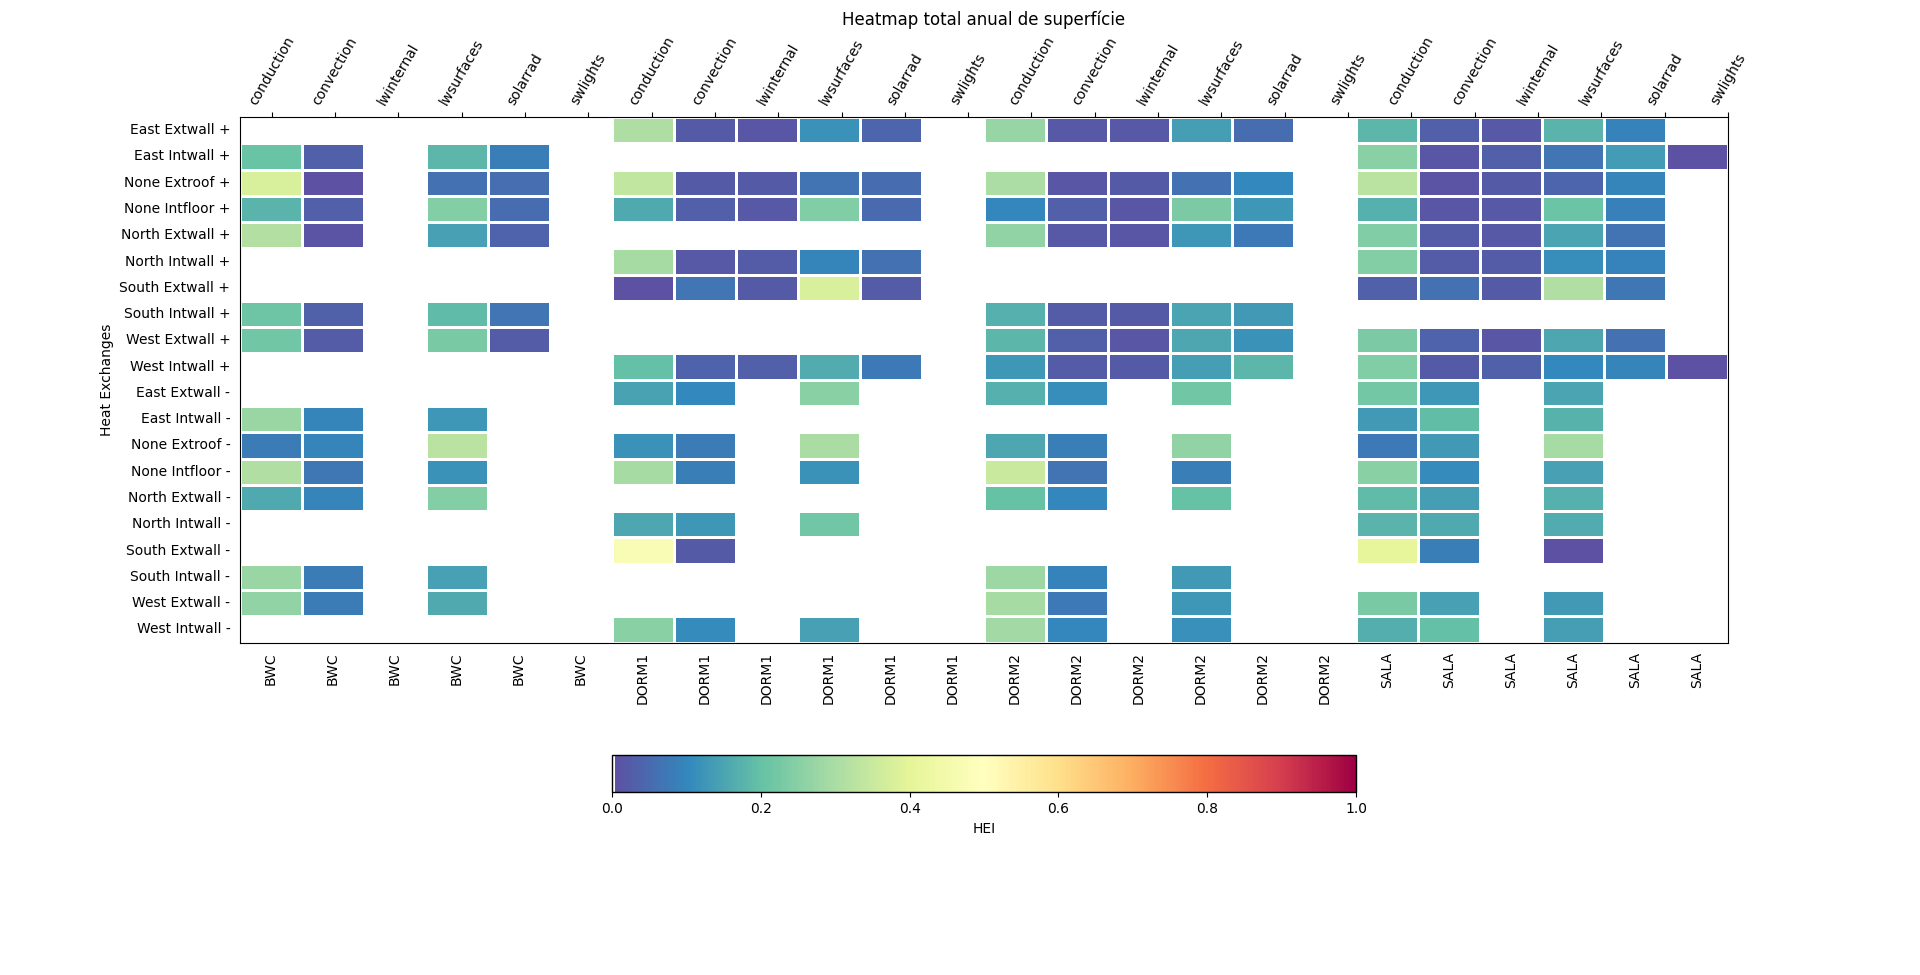
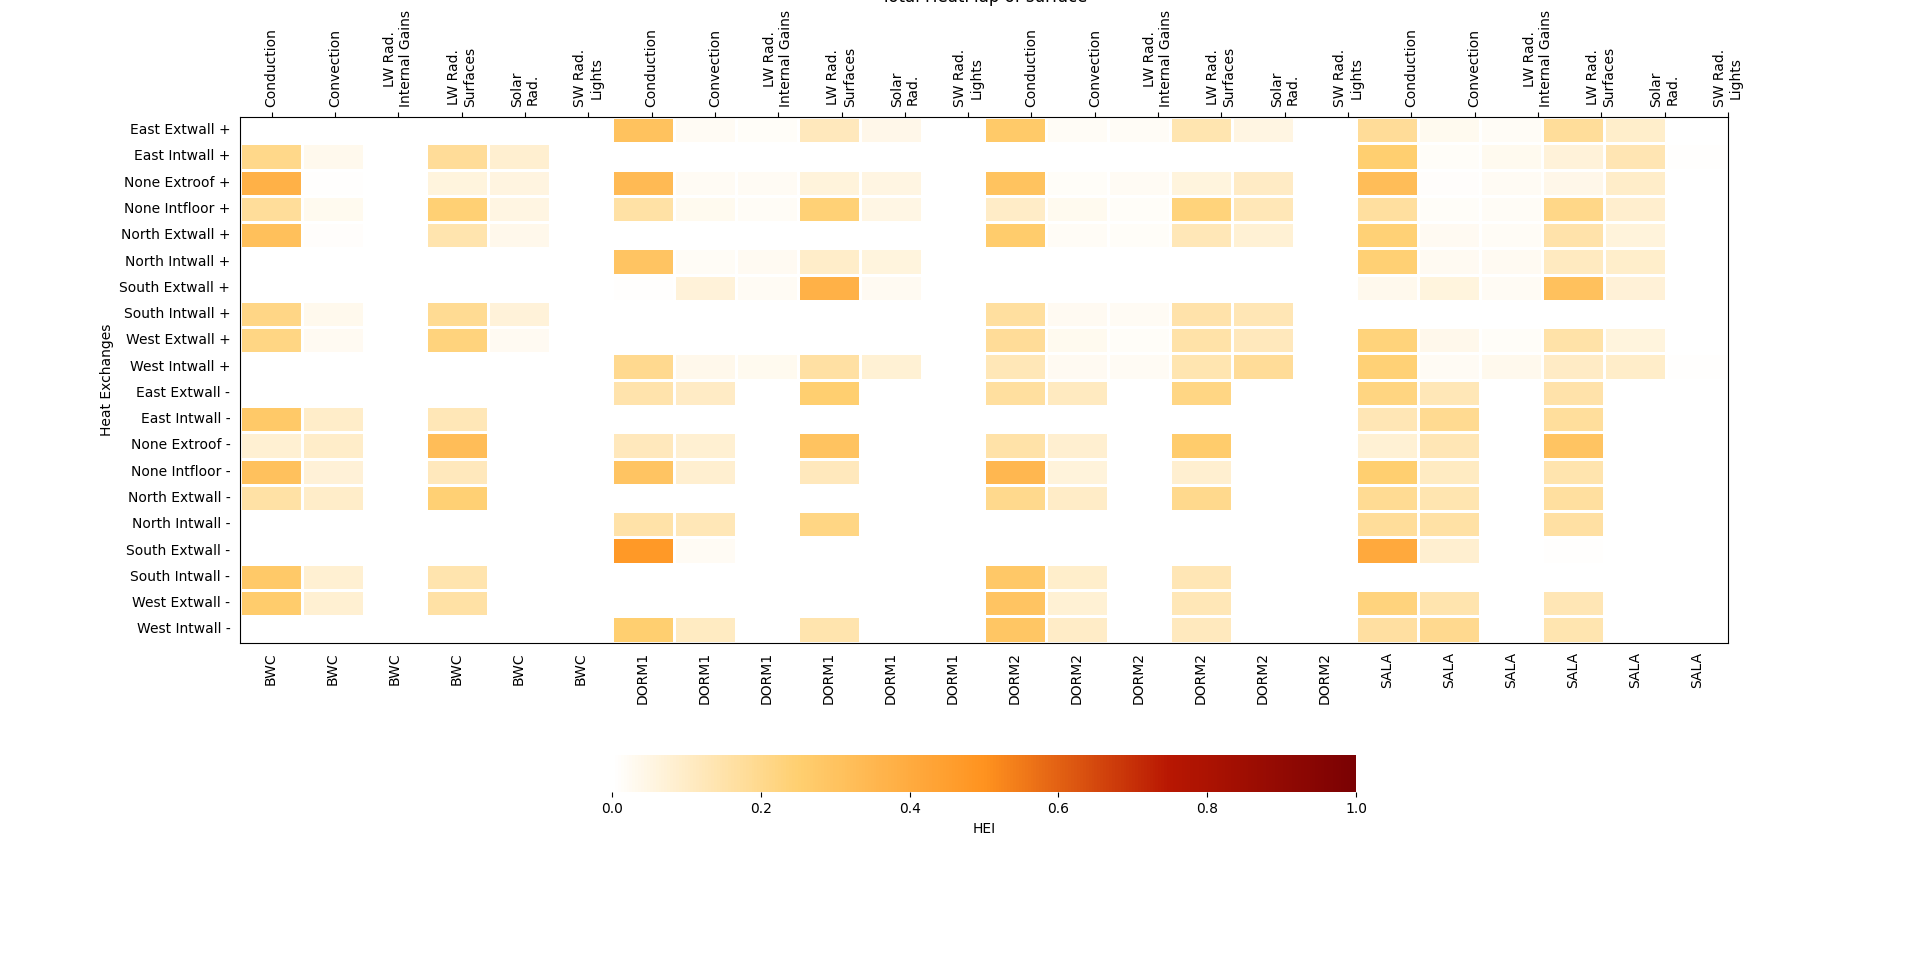
tudo pronto pendente ajustes

diff --git a/plotting_space/plotter.py b/plotting_space/plotter.py
@@ -7,6 +7,14 @@ from matplotlib import pyplot as plt
 from matplotlib.colors import LinearSegmentedColormap
 
 num_to_month = {1: 'Jan', 2: 'Feb', 3: 'Mar', 4: 'Apr', 5: 'May', 6: 'Jun', 7: 'Jul', 8: 'Aug', 9: 'Sep', 10: 'Oct', 11: 'Nov', 12: 'Dec'}
+surfaces_rename = {
+    "conduction": "Conduction",
+    "convection": "Convection",
+    "lwinternal": "LW Rad.\nInternal Gains",
+    "lwsurfaces": "LW Rad.\nSurfaces",
+    "swlights": "SW Rad.\nLights",
+    "solarrad": "Solar\nRad."
+}
 
 class HeatMap:
     def __init__(self, file_path: str, file_name: str, target_type: str, zones: list = 0, sizefont: float = 10, tight: bool = False, show: bool = False, cbar_orientation: str = 'right', months: list = 0):
@@ -15,14 +23,21 @@ class HeatMap:
         self.target_type = target_type
         self.df = pd.read_csv(f'{self.file_path}{self.file_name}', sep=',', index_col=0)
         self.df['gains_losses'] = self.df['gains_losses'].apply(lambda name: name.replace("_", " ").title())
-        if self.target_type == 'surface':
-            self.df['zone'] = self.df.apply(lambda row: f'{row["zone"]}|{row["flux"]}', axis=1)
         self.df['gains_losses'] = self.df.apply(lambda row: f'{row["gains_losses"]} +' if row['heat_direction'] == 'gain' else f'{row["gains_losses"]} -', axis=1)
         self.zones = zones
         self.sizefont = sizefont
         self.show = show
         self.months = months
         self.cbar_orientation = cbar_orientation
+        match self.zones:
+            case 0:
+                self.df = self.df.loc[self.df['zone'] != 'EXTERNAL']
+                self.title = f'Total HeatMap of {self.target_type}'
+            case _:
+                self.df = self.df.loc[self.df['zone'].isin(self.zones)]    
+                self.title = f'HeatMap of {self.target_type} for zones {", ".join(self.zones)}'
+        if self.target_type == 'surface':
+            self.df['zone'] = self.df.apply(lambda row: f'{row["zone"]}|{row["flux"]}', axis=1)
         if self.cbar_orientation in ['top', 'bottom']:
             self.cbar_kws = {"location": self.cbar_orientation, 'shrink': 0.5}
             self.tight = False
@@ -30,45 +45,45 @@ class HeatMap:
             self.cbar_kws = {"location": self.cbar_orientation}
             self.tight = tight
 
-    def plot_heatmap(self, title: str, month_plot: bool = False) -> sns.heatmap:
-        spectral_r = plt.get_cmap('Spectral_r')
-        colors = spectral_r(np.arange(spectral_r.N))
-        colors[0] = np.array([1, 1, 1, 1])
-        cmap = LinearSegmentedColormap.from_list('Custom_Spectral', colors, spectral_r.N)
+    def plot_heatmap(self, month_plot: bool = False) -> sns.heatmap:
+        colors = ["#FFFFFF", "#496DDB", "#00CC66", "#FFFF00", "#F98016", "#F2002B"] if self.target_type == 'convection' else ["#FFFFFF","#FFCF70","#FF931F","#B81702","#7A0103"]
+        cmap = LinearSegmentedColormap.from_list('Custom_cmap', colors)
         heatmap = sns.heatmap(data=self.df, vmax=1, vmin=0, cmap=cmap, linewidths=1, xticklabels=True, yticklabels=True, cbar_kws = self.cbar_kws)
         heatmap.set_xlabel('')
         heatmap.set_ylabel('Heat Exchanges')
-        heatmap.set_title(title)
+        heatmap.set_title(self.title)
         heatmap.collections[0].colorbar.set_label('HEI')
-        cbar = heatmap.collections[0].colorbar
-        cbar.outline.set_edgecolor('black')
-        cbar.outline.set_linewidth(1)
+        # Este código serve para adicionar uma borda à cbar
+        # cbar = heatmap.collections[0].colorbar
+        # cbar.outline.set_edgecolor('black')
+        # cbar.outline.set_linewidth(1)
         heatmap.tick_params(left=False, bottom=True)
         plt.xticks(rotation=90, fontsize=self.sizefont)
         plt.yticks(fontsize=self.sizefont)
-        if self.target_type == 'surface':
+        if self.target_type == 'surface' or month_plot:
             ax = plt.gca()
             labels = ax.get_xticklabels()
-            splited = [label.get_text().split('|') for label in labels]
+            if self.target_type == 'surface' and month_plot:
+                splited = [label.get_text().split('|') for label in labels]
+                splited = [[name[0], name[1].replace('?',' ')] for name in splited]
+                try:
+                    splited = [[name[0], name[1].replace(name[1].split(' ')[0], surfaces_rename[name[1].split(' ')[0]])] for name in splited]
+                except:
+                    splited = [[name[0], name[1].title()] for name in splited]
+            elif self.target_type == 'surface':
+                splited = [label.get_text().split('|') for label in labels]
+                try:
+                    splited = [[name[0], name[1].replace(name[1], surfaces_rename[name[1]])] for name in splited]
+                except:
+                    splited = [[name[0], name[1].title()] for name in splited]
+            elif month_plot:
+                splited = splited = [label.get_text().split('?') for label in labels]
             new_labels = [name[0] for name in splited]
             heatmap.set_xticklabels(new_labels, rotation=90, fontsize=self.sizefont)
             ax2 = ax.twiny()
             ax2.set_xticks(ax.get_xticks())
             new_labels2 = [name[1] for name in splited]
-            ax2.set_xticklabels(new_labels2, rotation=60, fontsize=self.sizefont)
-            ax.xaxis.tick_bottom()
-            ax2.xaxis.tick_top()
-            ax.tick_params(bottom=False) 
-        if month_plot:
-            ax = plt.gca()
-            labels = ax.get_xticklabels()
-            splited = [label.get_text().split('?') for label in labels]
-            new_labels = [name[0] for name in splited]
-            heatmap.set_xticklabels(new_labels, rotation=90, fontsize=self.sizefont)
-            ax2 = ax.twiny()
-            ax2.set_xticks(ax.get_xticks())
-            new_labels2 = [name[1] for name in splited]
-            ax2.set_xticklabels(new_labels2, rotation=60, fontsize=self.sizefont)
+            ax2.set_xticklabels(new_labels2, rotation=90, fontsize=self.sizefont)
             ax.xaxis.tick_bottom()
             ax2.xaxis.tick_top()
             ax.tick_params(bottom=False) 
@@ -87,58 +102,33 @@ class HeatMap:
         df_mins = self.df[[sign[-1] == '-' for sign in self.df.index]]
         self.df = pd.concat([df_plus, df_mins], axis=0)
 
-    def convection_annual(self) -> sns.heatmap:
-        match self.zones:
-            case 0:
-                self.df = self.df.loc[self.df['zone'] != 'EXTERNAL']
-                title = f'Heatmap total anual de convecção'
-            case _:
-                self.df = self.df.loc[self.df['zone'].isin(self.zones)]    
-                title = f'Heatmap para {", ".join(self.zones)} anual de convecção'
+    def annual(self) -> sns.heatmap:
         self.df = self.df[['gains_losses', 'zone', 'HEI']].pivot_table(index='gains_losses', columns='zone', values='HEI').fillna(0)
         self.order_sign()
-        map_obj = self.plot_heatmap(title = title)
+        map_obj = self.plot_heatmap()
         return map_obj
 
-    def convection_monthly(self) -> sns.heatmap:
-        match self.zones:
-            case 0:
-                self.df = self.df.loc[self.df['zone'] != 'EXTERNAL']
-                title = f'Heatmap total mensal de convecção'
-            case _:
-                self.df = self.df.loc[self.df['zone'].isin(self.zones)]    
-                title = f'Heatmap para {", ".join(self.zones)} mensal de convecção'
+    def monthly(self) -> sns.heatmap:
         match self.months:
             case 0:
                 pass
             case _:
-                self.df = self.df.loc[self.df['month'].isin(self.months)] 
+                self.df = self.df.loc[self.df['month'].isin(self.months)]
         self.df['zone'] = self.df.apply(lambda row: f'{row["zone"]}?{row["month"]}', axis=1)
         self.df = self.df[['gains_losses', 'zone', 'HEI']].pivot_table(index='gains_losses', columns='zone', values='HEI').fillna(0)
         self.df = self.df[sorted(self.df.columns, key=self.month_number)]
         self.order_sign()
         self.df.columns = [f'{column.split("?")[0]}?{column.split("?")[1].replace(column.split("?")[1], num_to_month[int(column.split("?")[1])])}' for column in self.df.columns]
-        map_obj = self.plot_heatmap(title = title, month_plot=True)
-        return map_obj
-    
-    def surface_annual(self) -> sns.heatmap:
-        match self.zones:
-            case 0:
-                self.df = self.df.loc[self.df['zone'] != 'EXTERNAL']
-                title = f'Heatmap total anual de superfície'
-            case _:
-                self.df = self.df.loc[self.df['zone'].isin(self.zones)]    
-                title = f'Heatmap para {", ".join(self.zones)} anual de superfície'
-        self.df = self.df[['gains_losses', 'zone', 'HEI']].pivot_table(index='gains_losses', columns='zone', values='HEI').fillna(0)
-        self.order_sign()
-        map_obj = self.plot_heatmap(title = title)
+        map_obj = self.plot_heatmap(month_plot=True)
         return map_obj
 
 
 if __name__ == "__main__":
-    # annual_conv = HeatMap(file_path=r'plotting_space/anual_conv/', file_name='anual_conv.csv', target_type='convection', show=True, cbar_orientation='bottom')
-    # annual_conv.convection_annual()
-    # mensal_conv = HeatMap(file_path=r'plotting_space/mensal_conv/', file_name='mensal_conv.csv', target_type='convection', show=True, cbar_orientation='bottom')
-    # mensal_conv.convection_monthly()
+    annual_conv = HeatMap(file_path=r'plotting_space/anual_conv/', file_name='anual_conv.csv', target_type='convection', show=True, cbar_orientation='bottom')
+    annual_conv.annual()
+    mensal_conv = HeatMap(file_path=r'plotting_space/mensal_conv/', file_name='mensal_conv.csv', target_type='convection', show=True, cbar_orientation='bottom')
+    mensal_conv.monthly()
     annual_surf = HeatMap(file_path=r'plotting_space/anual_surf/', file_name='anual_surf.csv', target_type='surface', show=True, cbar_orientation='bottom')
-    annual_surf.surface_annual()
+    annual_surf.annual()
+    mensal_surf = HeatMap(file_path=r'plotting_space/mensal_surf/', file_name='mensal_surf.csv', target_type='surface', show=True, zones=['SALA', 'BWC'], months=[1,2], cbar_orientation='bottom')
+    mensal_surf.monthly()
